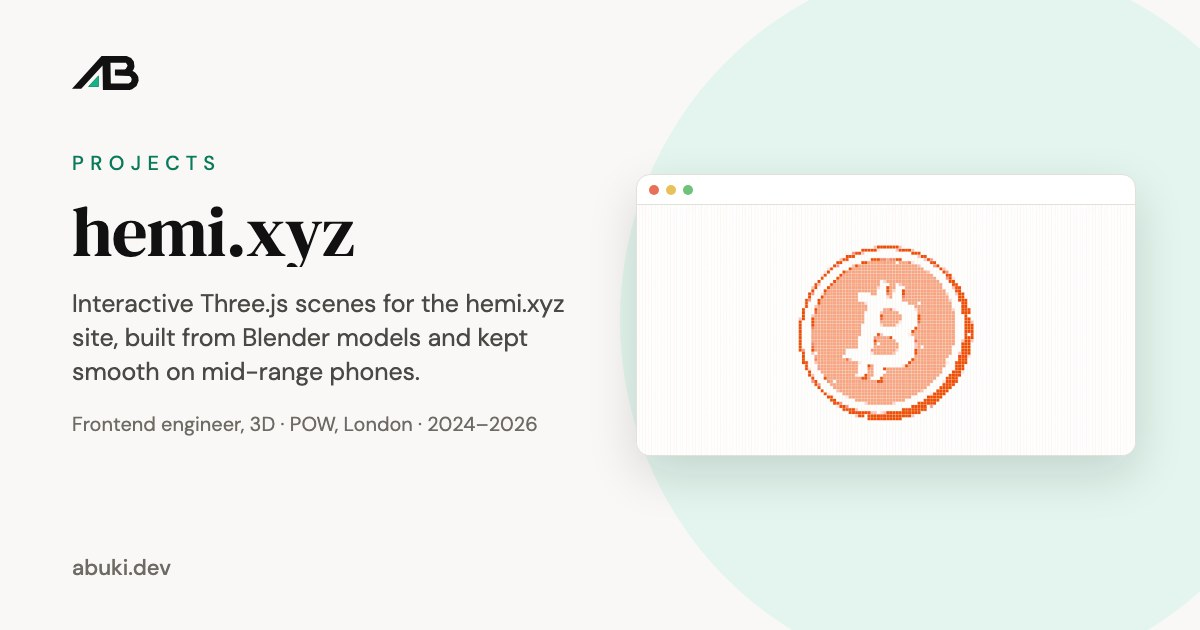
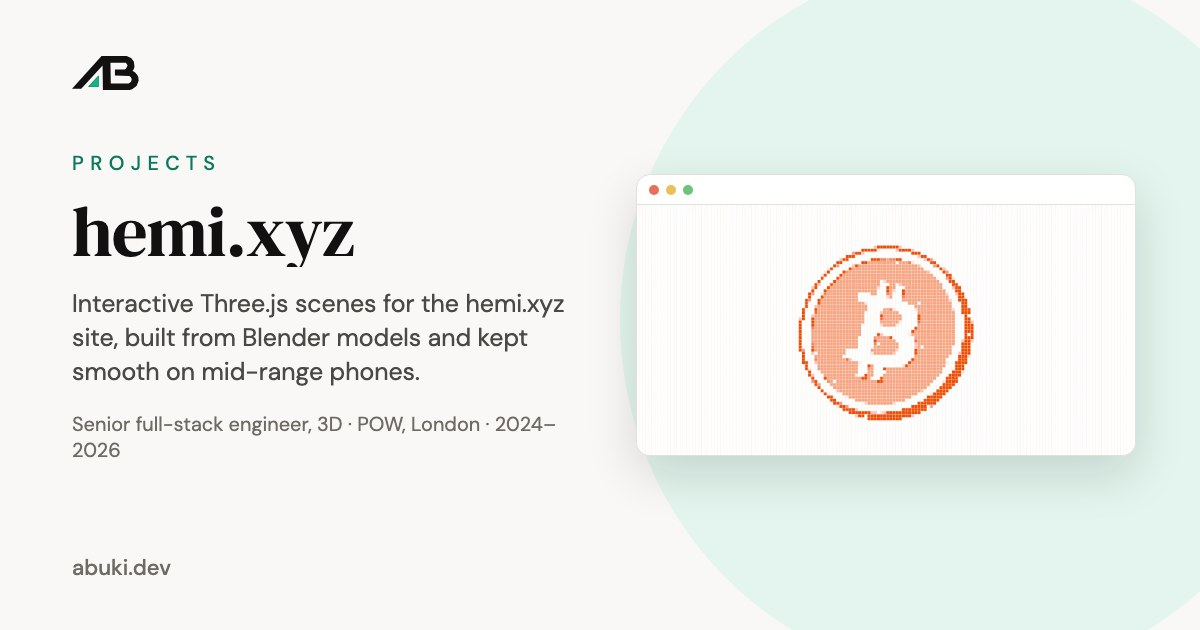
show studio work as one contract entry listing its client projects

Changed region(s): [[0.0617, 0.6635, 0.4625, 0.7238]]

diff --git a/app/data/experience.ts b/app/data/experience.ts
@@ -1,30 +1,20 @@
 import type { ExperienceEntry } from './types'
 
-/** Employment history, newest first. Years only, unless a month is needed to match the CV and hh. */
+/**
+ * Employment history, newest first. Years only: months add noise, not trust.
+ * The studio work since 2024 is one contract entry, as in the CV, so it reads
+ * as one line of work rather than two short jobs.
+ */
 export const experience: ExperienceEntry[] = [
   {
-    company: 'Vide Infra',
-    url: 'https://videinfra.com',
-    location: { en: 'Design studio, remote, contract', ru: 'Дизайн-студия, удалённо, контракт' },
+    company: { en: 'Contract development', ru: 'Контрактная разработка' },
+    location: { en: 'Remote', ru: 'Удалённо' },
     role: { en: 'Senior full-stack engineer', ru: 'Ведущий фулстек-инженер' },
-    period: { en: '2026 – now', ru: '2026 – сейчас' },
-    summary: {
-      en: 'Own everything but the backend on Sea Breeze Booking: architecture, the booking funnel, SSR, testing and releases.',
-      ru: 'Отвечаю за всё, кроме бэкенда, в Sea Breeze Booking: архитектура, воронка бронирования, SSR, тесты и релизы.',
-    },
-    projectSlug: 'sea-breeze-booking',
-  },
-  {
-    company: 'POW',
-    url: 'https://proofofwork.studio',
-    location: { en: 'Design studio, London, remote, contract', ru: 'Дизайн-студия, Лондон, удалённо, контракт' },
-    role: { en: 'Senior frontend engineer', ru: 'Ведущий фронтенд-инженер' },
-    period: { en: 'Aug 2024 – Jan 2026', ru: 'авг 2024 – янв 2026' },
-    summary: {
-      en: 'Led the front end of the OSMI.AI ecosystem and built Three.js scenes for hemi.xyz.',
-      ru: 'Вёл фронтенд экосистемы OSMI.AI и делал Three.js-сцены для hemi.xyz.',
-    },
-    projectSlug: 'osmi',
+    period: { en: '2024 – now', ru: '2024 – сейчас' },
+    clients: [
+      { via: 'Vide Infra', projects: [{ name: 'Sea Breeze', projectSlug: 'sea-breeze-booking' }, { name: 'Tekta' }] },
+      { via: 'POW', projects: [{ name: 'OSMI.AI', projectSlug: 'osmi' }, { name: 'hemi.xyz', projectSlug: 'hemi' }] },
+    ],
   },
   {
     company: 'Metamap',
@@ -32,10 +22,6 @@ export const experience: ExperienceEntry[] = [
     location: { en: 'San Francisco, remote', ru: 'Сан-Франциско, удалённо' },
     role: { en: 'Full-stack engineer', ru: 'Фулстек-инженер' },
     period: { en: '2022–2024', ru: '2022–2024' },
-    summary: {
-      en: 'Node.js microservices for a fintech underwriting platform used by 35 banks in Latin America.',
-      ru: 'Микросервисы на Node.js для финтех-платформы андеррайтинга, которой пользуются 35 банков Латинской Америки.',
-    },
     projectSlug: 'metamap',
   },
   {
@@ -44,10 +30,6 @@ export const experience: ExperienceEntry[] = [
     location: { en: 'Moscow', ru: 'Москва' },
     role: { en: 'Frontend engineer', ru: 'Фронтенд-инженер' },
     period: { en: '2020–2022', ru: '2020–2022' },
-    summary: {
-      en: 'Mail.ru main page and portal navigation: high-load UI, Playwright regression tests in the release pipeline, Chrome Excellence team award (VK People Awards 2021).',
-      ru: 'Главная Mail.ru и портальная навигация: высоконагруженный UI, регрессионные тесты на Playwright в пайплайне релизов, командная награда Chrome Excellence (VK People Awards 2021).',
-    },
     projectSlug: 'mail-ru',
   },
   {
@@ -57,10 +39,6 @@ export const experience: ExperienceEntry[] = [
     location: { en: 'Moscow', ru: 'Москва' },
     role: { en: 'Full-stack developer', ru: 'Full-stack разработчик' },
     period: { en: '2019–2020', ru: '2019–2020' },
-    summary: {
-      en: 'Customer portals for advertising clients, built end to end: Vue and Vuex on the front, Node and Koa behind, Consul microservices, CI/CD.',
-      ru: 'Кабинеты для рекламных клиентов, сделаны целиком: Vue и Vuex на фронте, Node и Koa на бэке, микросервисы на Consul, CI/CD.',
-    },
   },
   {
     company: 'Soft-Telematics',
@@ -69,10 +47,6 @@ export const experience: ExperienceEntry[] = [
     location: { en: 'Moscow', ru: 'Москва' },
     role: { en: 'Frontend developer', ru: 'Фронтенд-разработчик' },
     period: { en: '2019', ru: '2019' },
-    summary: {
-      en: 'Customer portals for GPS vehicle trackers with maps: Vue, Nuxt, Leaflet.',
-      ru: 'Кабинеты клиентов для GPS-трекеров автомобилей с картами: Vue, Nuxt, Leaflet.',
-    },
   },
   {
     company: 'IDS360',
@@ -81,9 +55,5 @@ export const experience: ExperienceEntry[] = [
     location: { en: 'Russia', ru: 'Россия' },
     role: { en: 'Developer', ru: 'Разработчик' },
     period: { en: '2017–2019', ru: '2017–2019' },
-    summary: {
-      en: 'First engineering job: Node and Express on the server, jQuery, Vue and React on the client.',
-      ru: 'Первая инженерная работа: Node и Express на сервере, jQuery, Vue и React на клиенте.',
-    },
   },
 ]

diff --git a/app/components/ExperienceList.vue b/app/components/ExperienceList.vue
@@ -1,15 +1,26 @@
 <template>
   <div>
     <ol class="grid gap-x-10 gap-y-6 sm:grid-cols-2">
-      <li v-for="entry in recent" :key="entry.company" class="grid gap-1">
+      <li v-for="entry in recent" :key="companyName(entry)" class="grid gap-1" :class="entry.clients ? 'sm:col-span-2' : ''">
         <p class="order-last text-sm text-ink-mute">{{ pick(entry.period) }}</p>
         <div>
           <p class="font-medium text-ink">
-            <NuxtLink v-if="entry.projectSlug" :to="localePath(`/projects/${entry.projectSlug}`)" class="link">{{ entry.company }}</NuxtLink>
-            <template v-else>{{ entry.company }}</template>
+            <NuxtLink v-if="entry.projectSlug" :to="localePath(`/projects/${entry.projectSlug}`)" class="link">{{ companyName(entry) }}</NuxtLink>
+            <template v-else>{{ companyName(entry) }}</template>
             <span class="font-normal text-ink-mute"> · {{ pick(entry.location) }}</span>
           </p>
           <p class="text-ink-soft">{{ pick(entry.role) }}</p>
+          <p v-if="entry.clients" class="mt-1 text-sm text-ink-mute">
+            <template v-for="(group, groupIndex) in entry.clients" :key="group.via">
+              <template v-if="groupIndex > 0">{{ ' · ' }}</template>
+              <template v-for="(project, projectIndex) in group.projects" :key="project.name">
+                <template v-if="projectIndex > 0">{{ ` ${$t('home.experience_and')} ` }}</template>
+                <NuxtLink v-if="project.projectSlug" :to="localePath(`/projects/${project.projectSlug}`)" class="link text-ink">{{ project.name }}</NuxtLink>
+                <template v-else>{{ project.name }}</template>
+              </template>
+              {{ ` ${$t('home.experience_via', { studio: group.via })}` }}
+            </template>
+          </p>
         </div>
       </li>
     </ol>
@@ -21,15 +32,20 @@
 
 <script setup lang="ts">
 import { experience } from '@/data/experience'
+import type { ExperienceEntry } from '@/data/types'
 
 /**
  * Work history for the home page's About section: recent jobs with role and
  * years (the company links to its case study when there is one). The pre-2020
  * jobs are folded into one line without company names: several short stints at
- * little-known companies read as job-hopping and add nothing for a reader.
+ * little-known companies read as job-hopping and add nothing for a reader. The
+ * contract entry spans the full row and lists its client projects, linked to
+ * their case studies where they have one.
  */
 const localePath = useLocalePath()
 const { pick } = useLocalized()
+
+const companyName = (entry: ExperienceEntry) => typeof entry.company === 'string' ? entry.company : pick(entry.company)
 
 const recent = experience.filter(entry => !entry.early)
 const early = experience.filter(entry => entry.early)

diff --git a/app/data/projects.ts b/app/data/projects.ts
@@ -14,7 +14,7 @@ export const projects: Project[] = [
     featured: true,
     company: 'Vide Infra',
     period: { en: '2026', ru: '2026' },
-    role: { en: 'Senior frontend engineer', ru: 'Ведущий фронтенд-инженер' },
+    role: { en: 'Senior full-stack engineer', ru: 'Ведущий фулстек-инженер' },
     tagline: {
       en: 'Direct booking platform for a resort city near Baku: 3.5 months from first commit to production.',
       ru: 'Платформа прямого бронирования для курортного города под Баку: 3,5 месяца от первого коммита до продакшена.',
@@ -43,7 +43,7 @@ export const projects: Project[] = [
     featured: true,
     company: 'POW, London',
     period: { en: '2024–2026', ru: '2024–2026' },
-    role: { en: 'Lead frontend engineer', ru: 'Ведущий фронтенд-инженер' },
+    role: { en: 'Senior full-stack engineer', ru: 'Ведущий фулстек-инженер' },
     tagline: {
       en: 'Led the front end of a decentralized AI ecosystem: an AI chat, an AI trading agent and a platform for node owners.',
       ru: 'Вёл фронтенд экосистемы децентрализованного ИИ: ИИ-чат, торговый ИИ-агент и платформа для владельцев нод.',
@@ -76,7 +76,7 @@ export const projects: Project[] = [
     featured: true,
     company: 'POW, London',
     period: { en: '2024–2026', ru: '2024–2026' },
-    role: { en: 'Frontend engineer, 3D', ru: 'Фронтенд-инженер, 3D' },
+    role: { en: 'Senior full-stack engineer, 3D', ru: 'Ведущий фулстек-инженер, 3D' },
     tagline: {
       en: 'Interactive Three.js scenes for the hemi.xyz site, built from Blender models and kept smooth on mid-range phones.',
       ru: 'Интерактивные 3D-сцены на Three.js для сайта hemi.xyz: модели из Blender, плавная работа на обычных телефонах.',

diff --git a/app/data/types.ts b/app/data/types.ts
@@ -45,15 +45,23 @@ export interface Project {
   video?: string
 }
 
+/** Projects a contract entry was done for, grouped by the studio they came through. */
+export interface ExperienceClientGroup {
+  via: string
+  projects: { name: string, projectSlug?: string }[]
+}
+
 export interface ExperienceEntry {
-  company: string
+  /** A company name, or a localized label such as "Contract development". */
+  company: string | Localized
   url?: string
   location: Localized
   role: Localized
   period: Localized
-  summary: Localized
   /** Links the entry to its project page when there is one. */
   projectSlug?: string
+  /** For contract work: the client projects, listed under the role. */
+  clients?: ExperienceClientGroup[]
   /** Before 2020: folded into one summary line instead of a full entry. */
   early?: boolean
 }

diff --git a/app/composables/usePageSeo.ts b/app/composables/usePageSeo.ts
@@ -19,7 +19,7 @@ export interface PageSeoOptions {
  * by URL (Telegram even caches a failed fetch), and a new query string makes them
  * fetch it again.
  */
-const OG_CARD_VERSION = 3
+const OG_CARD_VERSION = 4
 
 export const usePageSeo = ({ title, description, type = 'website', card = 'home' }: PageSeoOptions) => {
   const route = useRoute()
